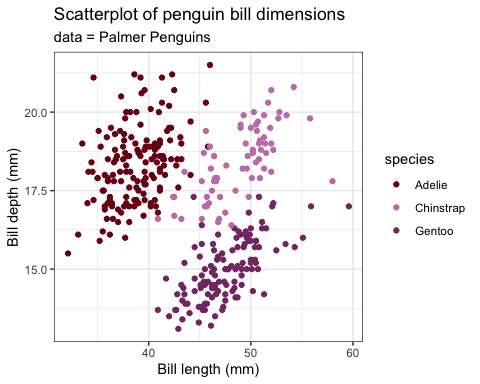
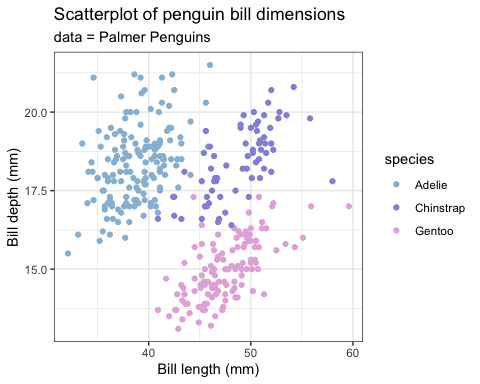
update readme

diff --git a/README.md b/README.md
@@ -66,7 +66,7 @@ ggplot(penguins, aes(x = bill_length_mm, y = bill_depth_mm, color = species))+
        subtitle = "data = Palmer Penguins")+
   theme_bw()+
   
-  scale_color_manual(values = whistledown_palette("danbury", 3)) 
+  scale_color_manual(values = whistledown_palette("daphne", 3)) 
 ```
 
 ![](readme_files/figure-gfm/usage3-1.png)<!-- -->
